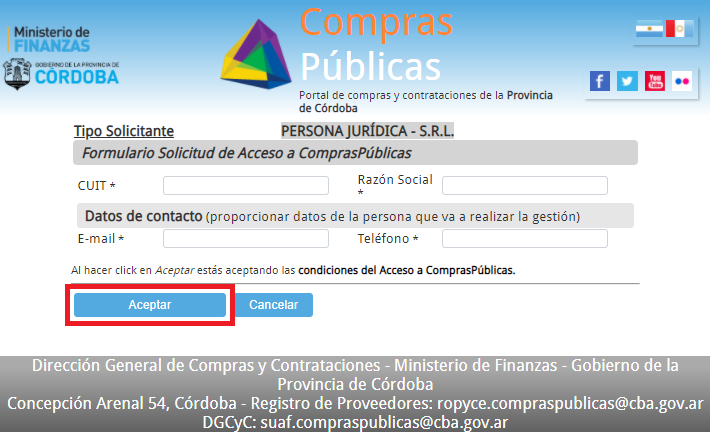
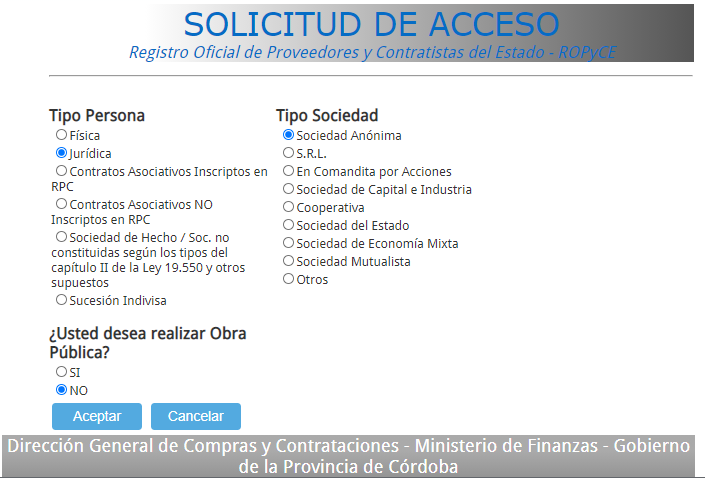
10022021

diff --git a/inscripcion.html b/inscripcion.html
@@ -9646,7 +9646,7 @@ O<br />
 
     </div>
 
-    <div class="col-lg-6 redondeado border" style="height:250px;">
+    <div class="col-lg-6 redondeado " style="height:250px;">
       <h4>Con FIRMA DIGITAL a nuestra casilla:
 </h4>
       <i class="icon icon-round icon-abbey-filled icon-lg-bigger fas fa-envelope"></i><br>
@@ -9654,11 +9654,11 @@ O<br />
 
     </div>
 
-    <div class="col-lg-6 redondeado border" style="height:250px;">
+    <div class="col-lg-6 redondeado " style="height:250px;">
 
       <h4>Por E-TRÁMITES, desde la cuenta CiDi del titular o Representante Legal. </h4>
   <a href="https://compraspublicas.cba.gov.ar/wp-content/uploads/2020/12/Instructivo_Docu-por-e-tr%C3%A1mites.-.pdf" target="_blank"><img src="images/linkdeinteres/etramites.png" class="shadowh p-1" style="height:50px;border:1px solid grey; border-radius:5px;" alt="">Acá te mostramos cómo hacerlo. </a>
-      
+
     </div>
   </div>
   <p> <a href="Quieroserproveedor2.html">volvé al inicio</a></p>

diff --git a/acceso.html b/acceso.html
@@ -343,7 +343,7 @@ $('#selectCategory').change(function(){
                         <h4 class="color-celeste"> Rellená los campos solicitados, hacé clic en "Aceptar" y ¡Listo!</h4>
                       </div>
                     <div class="form-group col-lg-12">
-                      <img src="images/accesoacp/4.png" class="drop" alt="" style="height:350px" >
+                      <img src="images/accesoacp/5.png" class="drop" alt="" style="height:350px" >
                     </div>
                     <div class="col-lg-12">
                       <div class="bg-success border text-white redondeado p-2 m-2">
